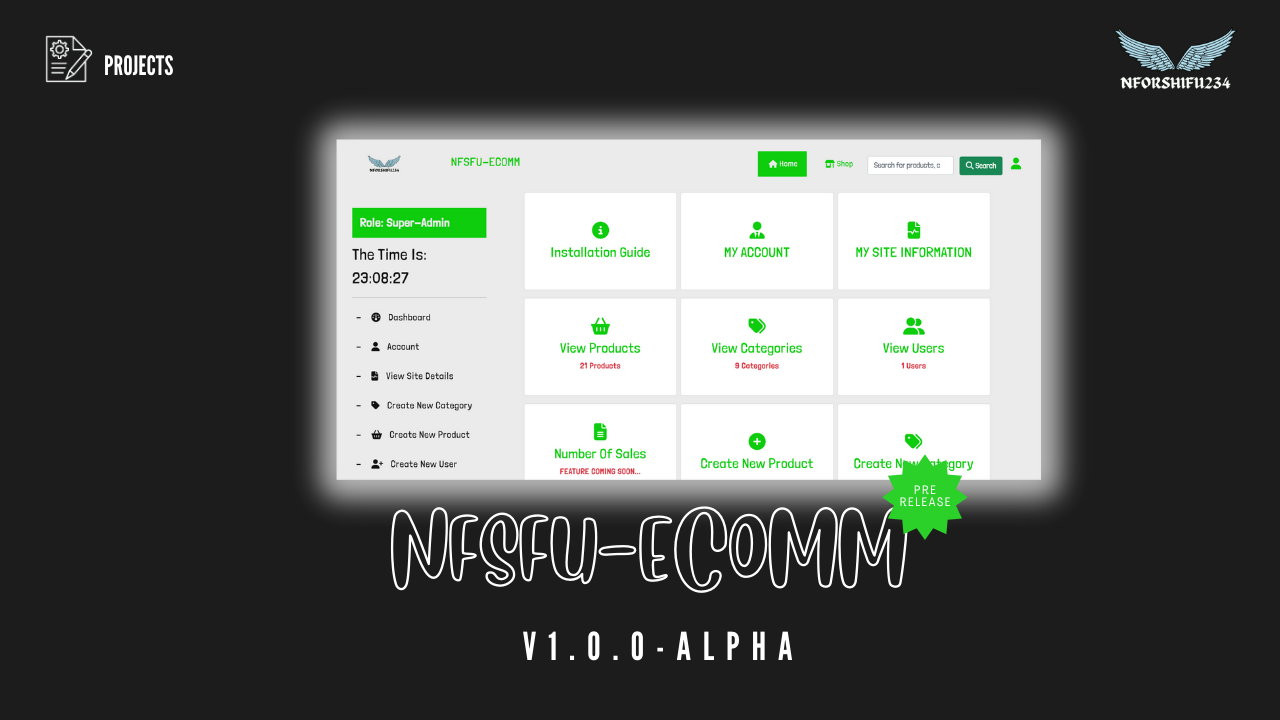
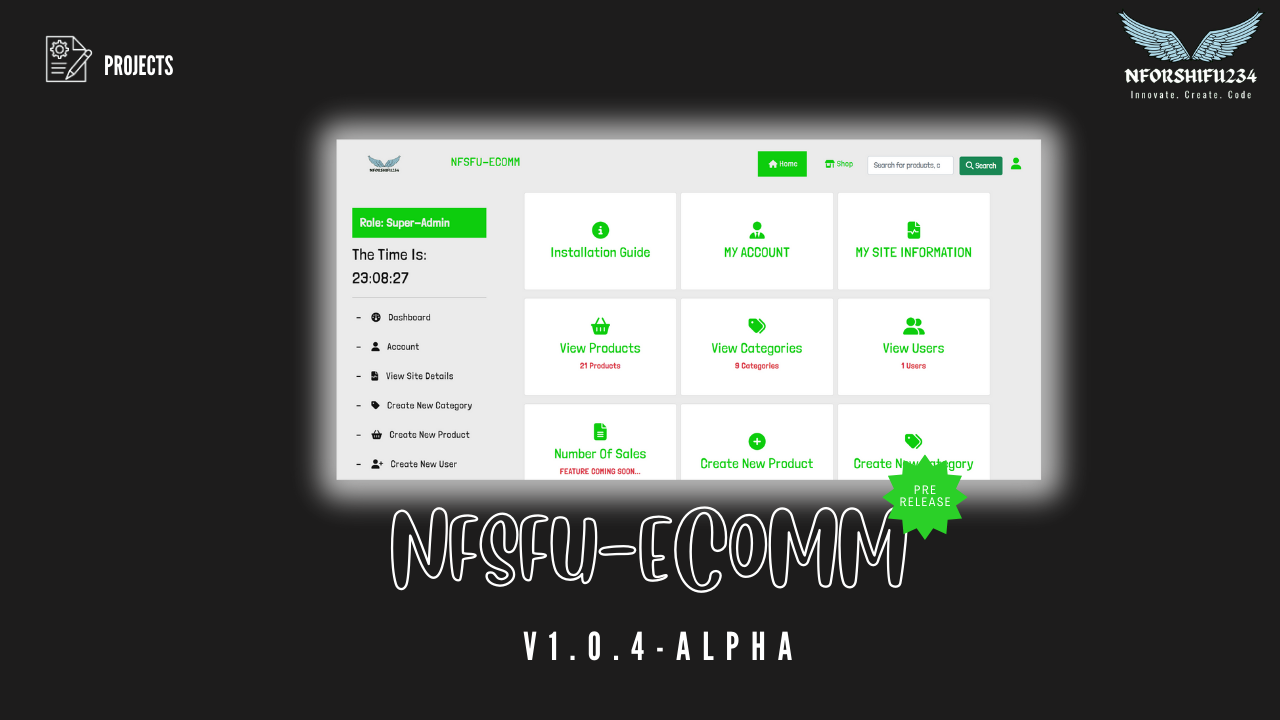
Final Updates

Changed region(s): [[0.875, 0.0306, 1.0, 0.1528], [0.5312, 0.8861, 0.625, 0.9167], [0.4062, 0.8861, 0.5, 0.9167]]

diff --git a/assets/php/pages/db.php b/assets/php/pages/db.php
@@ -1,8 +1,8 @@
 <?php
-$dbName="delivery-app-b7iEmO6pPRq4Wkf2_2023-07-16__21:42:55";
-$dbAdminName="Shifu-Nfor Nyuiring-yoh Rhagninyui";
-$dbAdminEmail="nforshifu234.dev@gmail.com";
-$dbAdminUsername="nforshifu_234";
+$dbName="nforshifu234dev-mSOtRfD8KvQsuBkA34qZ_2023-07-17__00:18:13";
+$dbAdminName="NFORSHIFU234";
+$dbAdminEmail="nforshifu234@domain.com";
+$dbAdminUsername="nforshifu234dev";
 define( "DB_NAME", " $dbName");
 define( "DB_ADMIN_NAME", " $dbAdminName");
 define( "DB_ADMIN_USERNAME", " $dbAdminUsername");

diff --git a/assets/php/pages/site-logo.php b/assets/php/pages/site-logo.php
@@ -1,4 +1,4 @@
 <?php
-$logoPath="assets/users/Hall Delivery-USR-ID-fgGovhxH6CLNleinQbTM9sDRqjZWYdSp2IaK1k75/media/images/20230716223847_IMG-20230710-WA0015.jpg";
+$logoPath="assets/users/NFORSHIFU234DEV-USR-ID-Kal3BA4uHNG027WtFvripSbyQzMgJYdXmE1CnI6P/media/images/nforshifu234-logo.png";
 define( "LOGO_URL", " $logoPath");
 ?>

diff --git a/assets/php/pages/site-name.php b/assets/php/pages/site-name.php
@@ -1,3 +1,3 @@
 <?php
-$brandName="Hall Delivery";
+$brandName="NFORSHIFU234DEV";
 ?>
